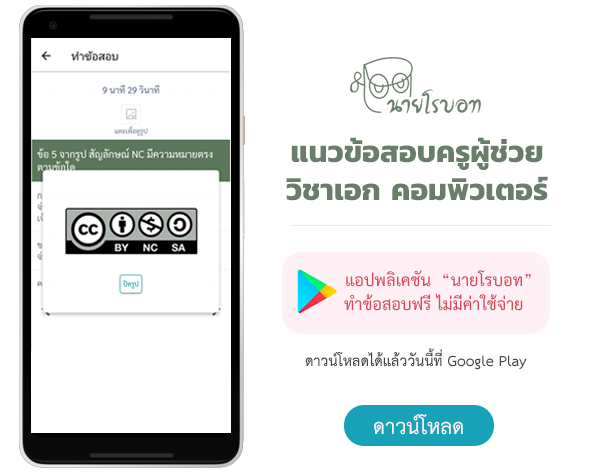
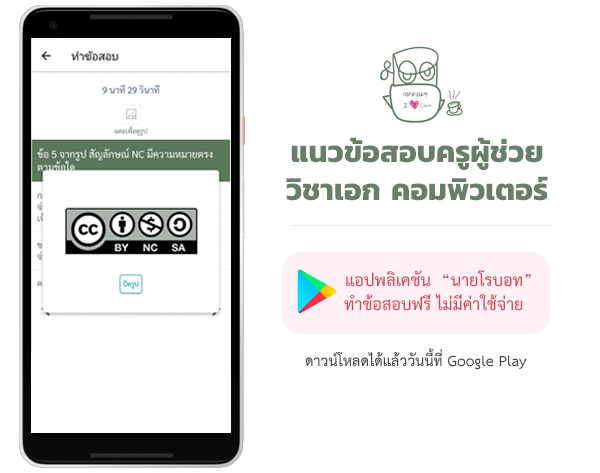
new design

Changed region(s): [[0.57, 0.0888, 0.81, 0.2664], [0.57, 0.8584, 0.84, 0.9471]]

diff --git a/src/Promotion.js b/src/Promotion.js
@@ -1,6 +1,6 @@
 import React, { Component } from 'react';
 import { Container, Row, Col, Card, CardDeck, Button} from 'react-bootstrap';
-import bannerApp from './img/bannerApp.png';
+import bannerApp from './img/bannerApp2.png';
 
 class Promotion extends Component {
     render() {
@@ -20,7 +20,7 @@ class Promotion extends Component {
                         <Row>
                             <Col> 
                                 <p className="txtRobot" style={{color:'#627498'}}>แอปพลิเคชัน นายโรบอท</p>
-                                <p className="txtTitleApp" style={{color:'#627498'}}> 
+                                <p className="txtTitleApp" style={{color:'#627498', paddingRight:'20px'}}> 
                                     แอปพลิเคชันนี้จัดทำขึ้นเพื่อให้ผู้ที่กำลังเตรียมตัวสอบครูผู้ช่วย หรือข้าราชการอื่น ๆ 
                                     ที่เกี่ยวข้องกับสาขาวิชาคอมพิวเตอร์และเทคโนโลยีสารสนเทศ 
                                     ข้อสอบเหล่านี้ได้ถูกรวบรวมมาจากผู้ที่มีประสบการณ์การสอบมานับครั้งไม่ถ้วน 
@@ -37,7 +37,7 @@ class Promotion extends Component {
                         <Row>
                             <Col mx="auto">
                                 <br/><br/>
-                                <p className="txtRobot" style={{color:'#627498'}}> บริการเพื่อคุณ </p>
+                                <p className="txtRobot" style={{color:'#627498', marginTop:'50px'}}> บริการเพื่อคุณ </p>
                                 <CardDeck>
                                     <Card className="cardPlan1">
                                         <Card.Body>

diff --git a/src/Register.js b/src/Register.js
@@ -28,9 +28,9 @@ class Register extends Component {
                             borderRadius: "5px"
                         }}>
                             <p className="topic2">แนวข้อสอบครูผู้ช่วย วิชาเอกคอมพิวเตอร์</p>
-                            <Alert variant="info">
-                                <p style={{fontSize:'16px', marginBottom:'5px'}}>สนับสนุนค่ากาแฟแอดมิน :)</p>
-                                <p style={{fontSize:'12px', margin:'0px'}}>พร้อมเพย์ 082 781 8941 ชลธี สินสาตร์</p>
+                            <Alert style={{backgroundColor:'#f8f2e8'}}>
+                                <p style={{fontSize:'16px', marginBottom:'5px', color:'#b28644'}}>สนับสนุนค่ากาแฟแอดมิน :)</p>
+                                <p style={{fontSize:'12px', margin:'0px', color:'#b28644'}}>พร้อมเพย์ 082 781 8941 ชลธี สินสาตร์</p>
                             </Alert>
                             <hr/>
                             <input type="button" className="btnLoginFree" value="ทำข้อสอบ" onClick={this.guestFree}/>

diff --git a/src/Home.js b/src/Home.js
@@ -7,7 +7,9 @@ class Home extends Component {
         return(
             <div>
                 <Promotion/>
+                <div style={{backgroundColor:'#d1ecf1', paddingTop:'1px', paddingBottom:'35px', height:'100%'}}>
                 <Register/>
+                </div>
                 <br/>
             </div>
         );

diff --git a/src/index.css b/src/index.css
@@ -182,7 +182,7 @@ a:active {
   background-size: 1rem 1rem;
 }
 .txtRobot{
-  margin-top:45px; 
+  margin-top:20px; 
   font-size: 24px; 
   font-weight: 800;
   color:'#627498';
